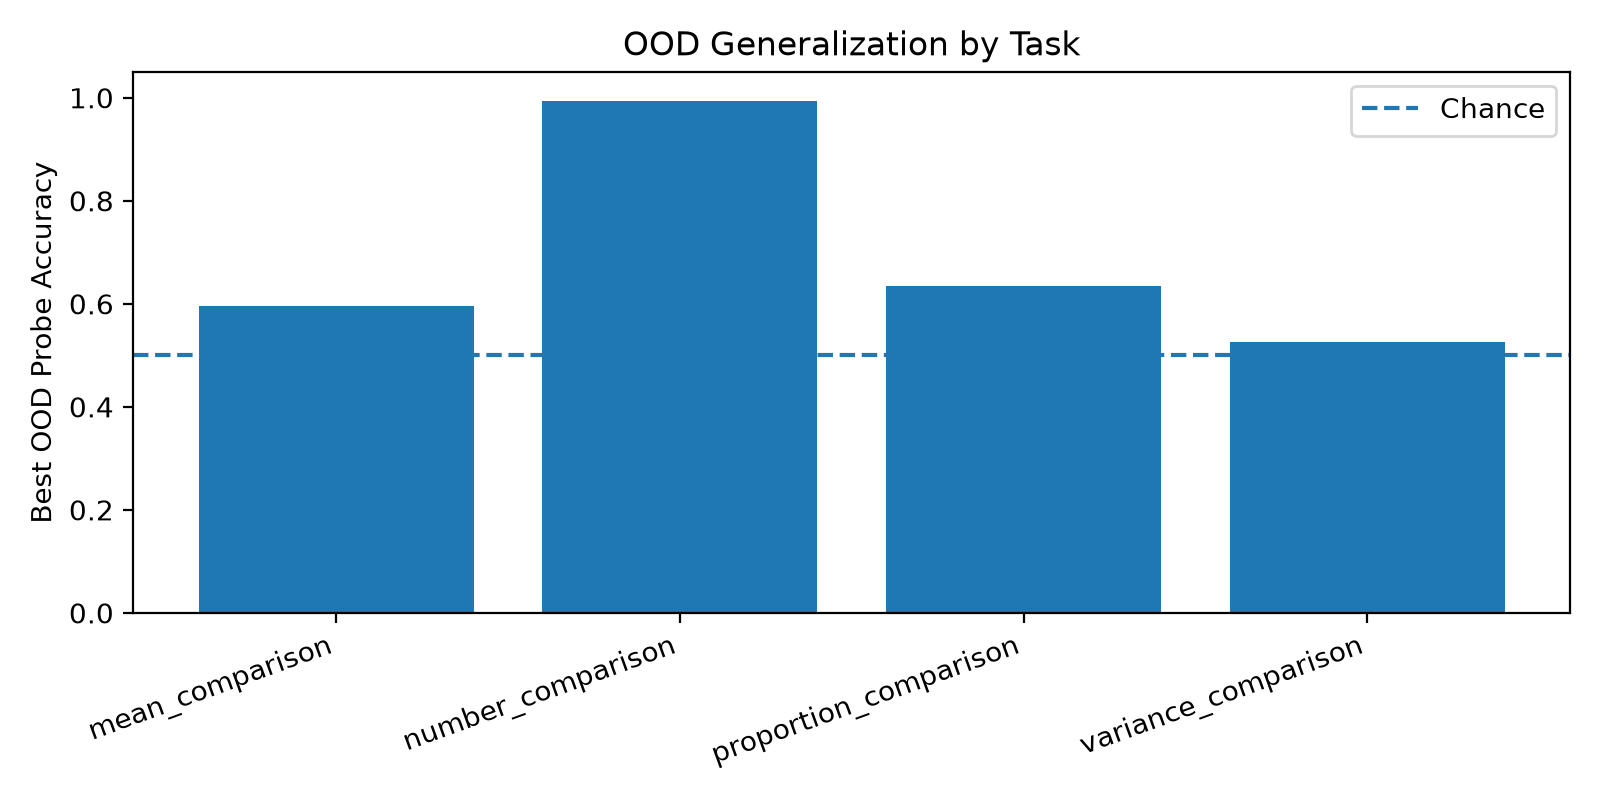
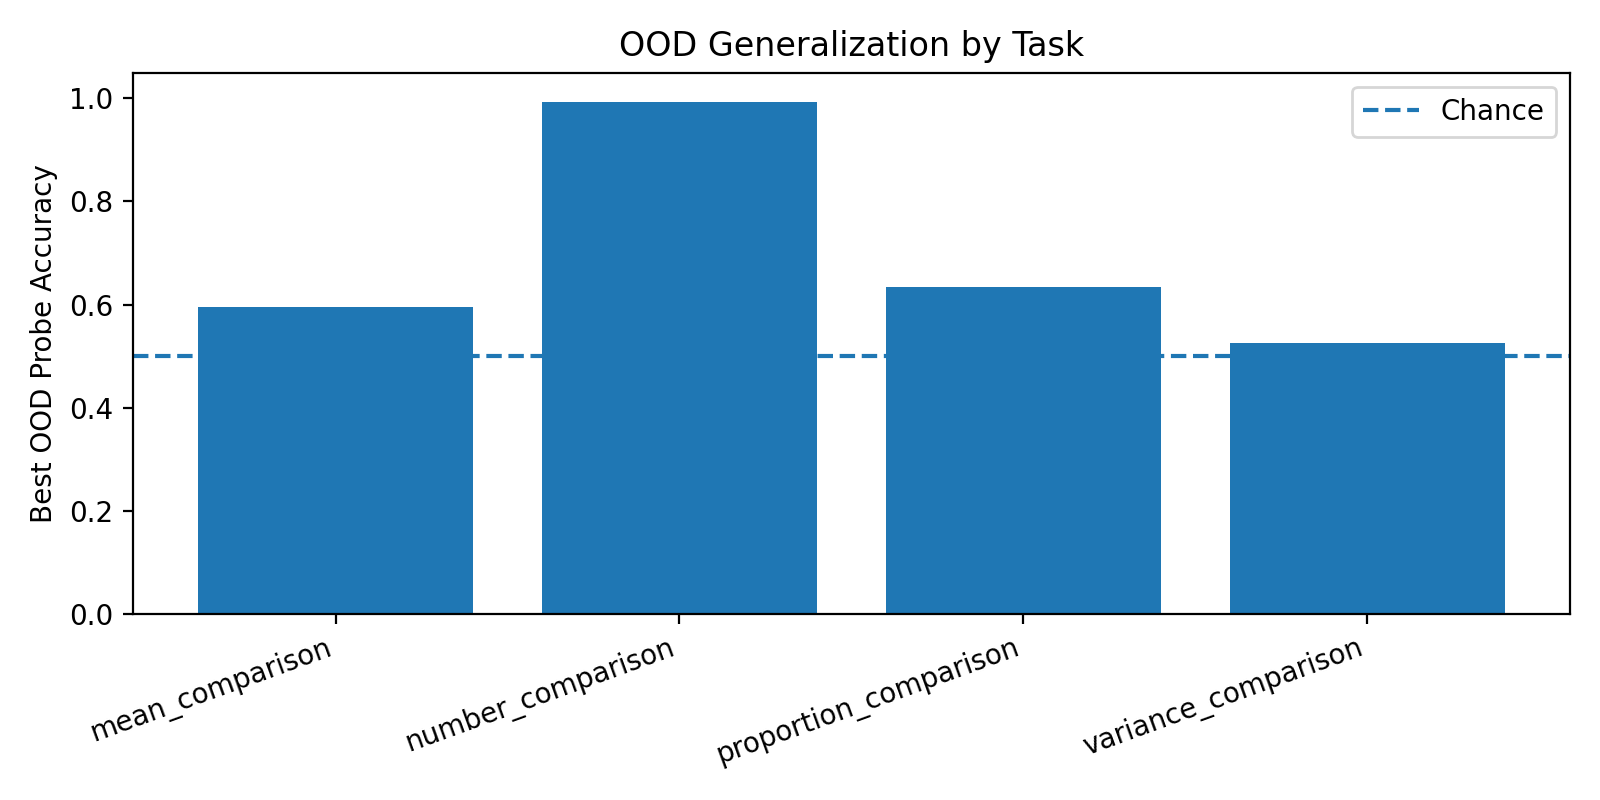
Add OOD generalization results

diff --git a/README.md b/README.md
@@ -170,3 +170,20 @@ The OOD setup trains probes on smaller/simple numbers and tests on larger/harder
 This suggests that hidden-state representations do not generalize equally across numerical operations. Simple magnitude comparison appears highly transferable, while statistical operations such as mean, proportion, and especially variance are more sensitive to distribution shift.
 
 This gives a clearer research question: when do model-internal numerical representations encode reusable abstractions, and when are they distribution-bound?
+
+## Out-of-Distribution Generalization
+
+I tested whether hidden-state probes trained on simpler numerical distributions generalize to harder out-of-distribution examples.
+
+The OOD setup trains probes on smaller/simple numbers and tests on larger/harder numbers.
+
+| Task | Best OOD Probe Accuracy | Interpretation |
+|---|---:|---|
+| Number comparison | 0.994 | Strong generalization |
+| Proportion comparison | 0.634 | Partial generalization |
+| Mean comparison | 0.596 | Partial generalization |
+| Variance comparison | 0.526 | Near chance |
+
+This suggests that hidden-state representations do not generalize equally across numerical operations. Simple magnitude comparison appears highly transferable, while statistical operations such as mean, proportion, and especially variance are more sensitive to distribution shift.
+
+This gives a clearer research question: when do model-internal numerical representations encode reusable abstractions, and when are they distribution-bound?
